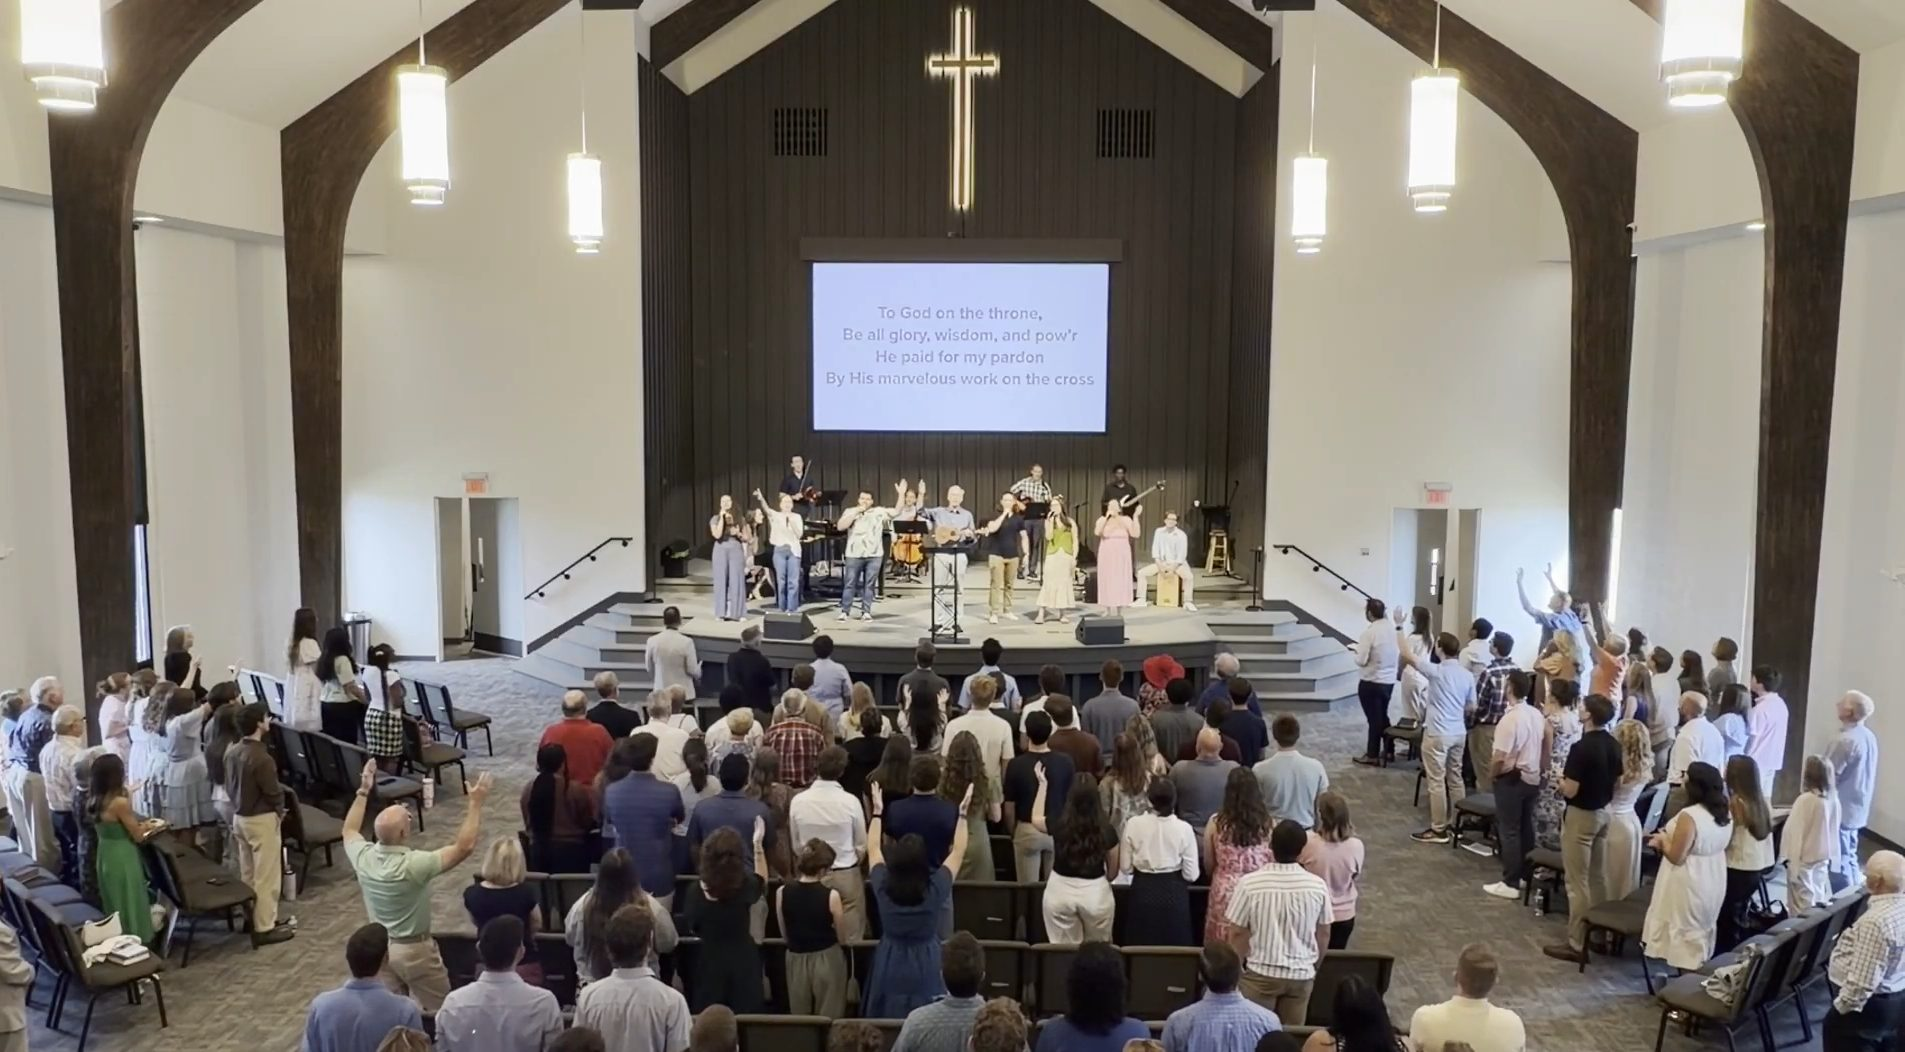
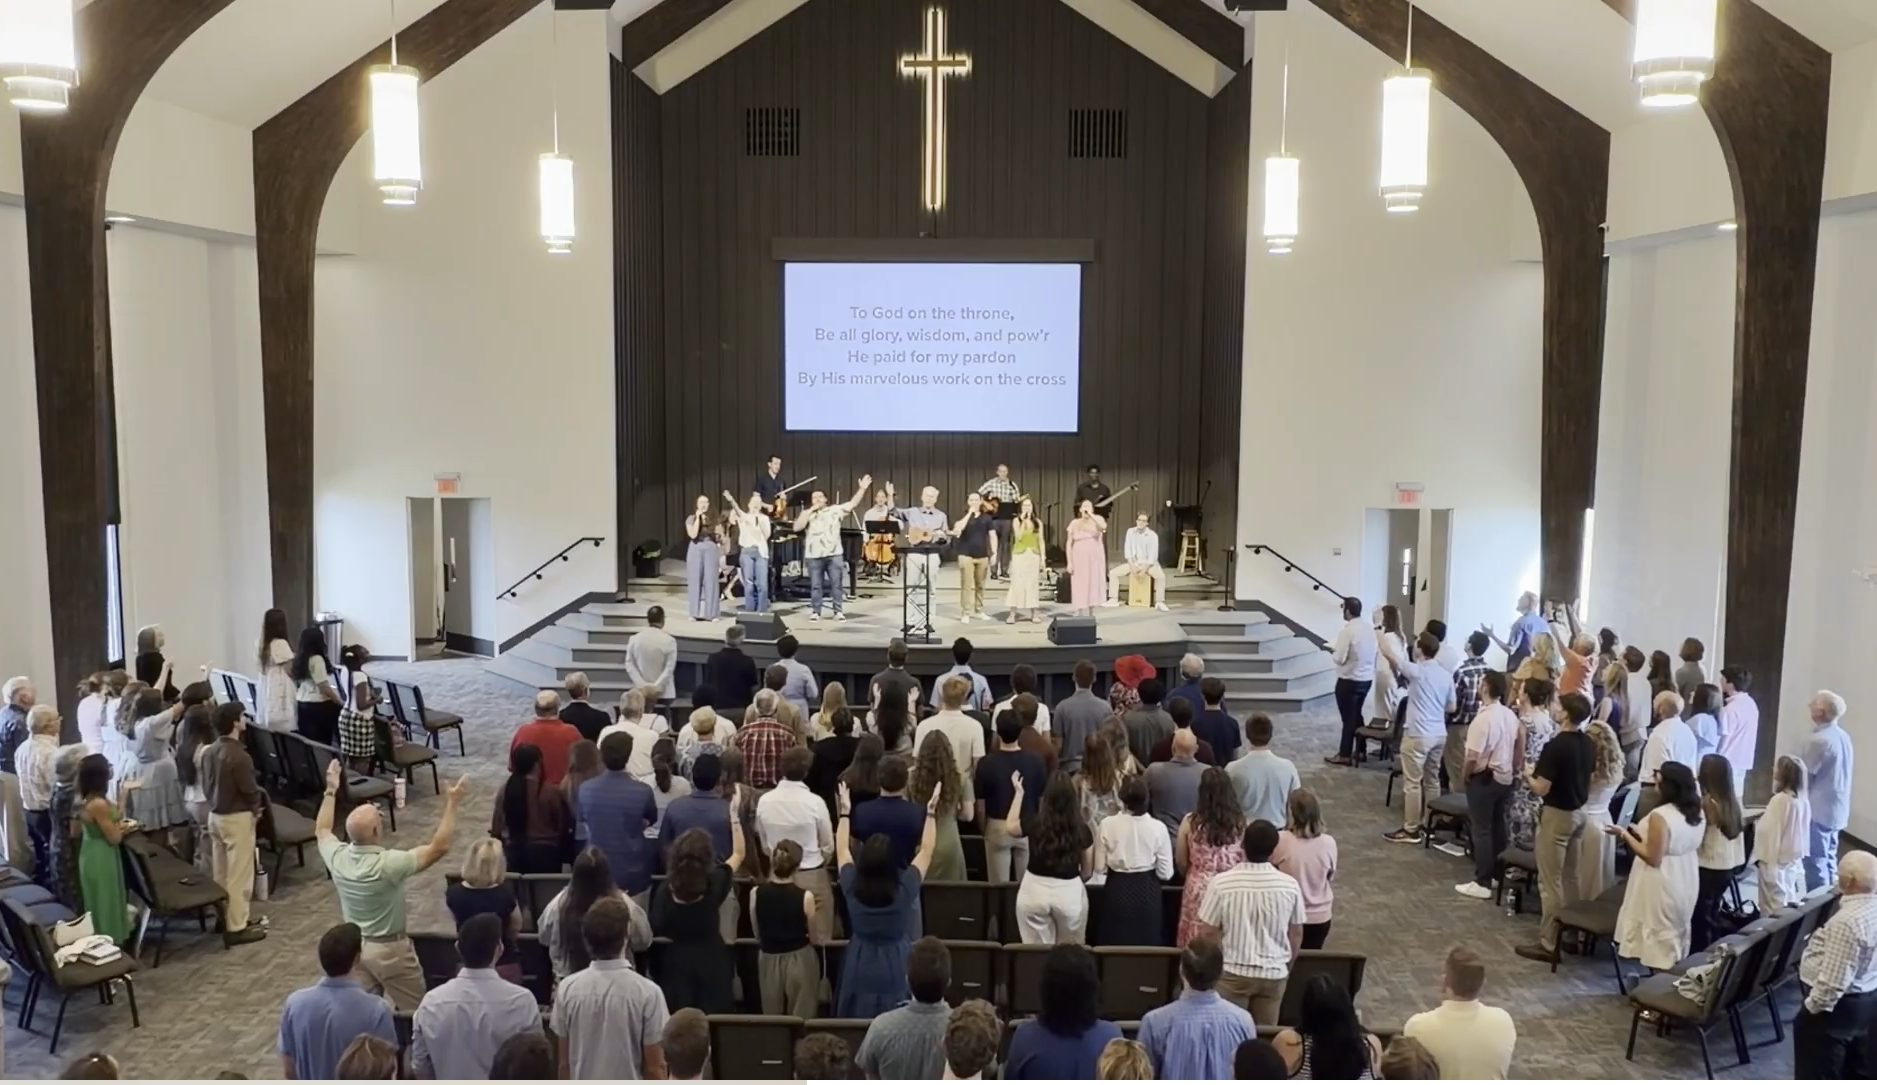
Swap the hero photo and restore cover top-center framing
Replace the sanctuary background with the new worship photo and drop
the 1mm left nudge so the image fills with cover, top-center, and the
wall-cross stays in frame.

diff --git a/css/app.css b/css/app.css
@@ -12,7 +12,7 @@
 .btn:hover{text-decoration:none}.btn:focus-visible{outline:3px solid var(--lime);outline-offset:2px}
 .btn-lime{background:var(--lime);color:var(--charcoal)}.btn-forest{background:var(--forest);color:#fff}.btn-outline{background:transparent;border-color:var(--forest);color:var(--forest)}.btn-ghost{background:transparent;color:var(--charcoal)}.btn-sm{padding:8px 12px;font-size:13px}.btn-block{width:100%}
 .hero{padding:88px 0 72px}.kicker{font-size:12px;letter-spacing:.16em;font-weight:700;text-transform:uppercase;color:var(--forest);margin:0 0 16px}
-.landing-hero-wrap{min-height:calc(100vh - 72px);min-height:calc(100dvh - 72px);display:flex;align-items:center;justify-content:center;padding:32px 24px;box-sizing:border-box;position:relative;background-color:var(--white);background-image:linear-gradient(rgba(255,255,255,.72),rgba(255,255,255,.72)),url("../assets/hero-worship.jpg");background-size:100% 100%,cover;background-position:center,calc(50% - 1mm) top;background-repeat:no-repeat}
+.landing-hero-wrap{min-height:calc(100vh - 72px);min-height:calc(100dvh - 72px);display:flex;align-items:center;justify-content:center;padding:32px 24px;box-sizing:border-box;position:relative;background-color:var(--white);background-image:linear-gradient(rgba(255,255,255,.72),rgba(255,255,255,.72)),url("../assets/hero-worship.jpg");background-size:100% 100%,cover;background-position:center,top center;background-repeat:no-repeat}
 .landing-hero{display:flex;flex-direction:column;align-items:center;text-align:center;width:max-content;max-width:100%;margin-inline:auto;position:relative;z-index:1}
 .landing-hero-mark{height:64px;width:auto;margin:0 0 28px}
 .display{font-family:var(--serif);font-weight:500;font-size:clamp(36px,5.4vw,56px);line-height:1.15;letter-spacing:-.02em;margin:0 0 20px;max-width:18ch}
@@ -47,4 +47,4 @@ footer{border-top:1px solid var(--hairline);padding:48px 0 28px}.foot{display:gr
 table{width:100%;border-collapse:collapse;font-size:14px}th,td{text-align:left;padding:12px 10px;border-bottom:1px solid var(--hairline)}th{font-size:12px;letter-spacing:.06em;text-transform:uppercase;color:var(--muted)}
 .toast{position:fixed;bottom:24px;right:24px;background:var(--charcoal);color:#fff;padding:12px 16px;border-radius:10px;font-size:14px;display:none;z-index:80}.toast.show{display:block}
 .faq details{border-bottom:1px solid var(--hairline);padding:14px 0}.faq summary{cursor:pointer;font-weight:700}
-@media(max-width:900px){.grid-3,.featured,.foot,.admin-shell,.stats,.grid-2{grid-template-columns:1fr}.song-row{grid-template-columns:40px 1fr}.actions{grid-column:1/-1;justify-content:flex-start}.nav-links{display:none}.nav-links.open{display:flex;flex-direction:column;position:absolute;top:72px;left:0;right:0;background:#fff;border-bottom:1px solid var(--hairline);padding:16px 24px}.nav-cta .btn{min-height:44px}.nav-toggle{display:inline-flex;align-items:center;justify-content:center;width:44px;height:44px;min-width:44px;min-height:44px;padding:0;border:0;border-radius:var(--radius);background:var(--forest-dark);background-color:var(--forest-dark);background-image:none;color:var(--white)}.nav-toggle:focus-visible{outline:3px solid var(--lime);outline-offset:2px}.aside{display:flex;gap:8px;overflow:auto}.landing-hero-wrap{padding:24px 20px;background-image:linear-gradient(rgba(255,255,255,.82),rgba(255,255,255,.82)),url("../assets/hero-worship.jpg");background-size:100% 100%,cover;background-position:center,calc(50% - 1mm) top}.landing-hero-mark{height:56px}.landing-hero-title{font-size:clamp(22px,5.6vw,36px)}}
+@media(max-width:900px){.grid-3,.featured,.foot,.admin-shell,.stats,.grid-2{grid-template-columns:1fr}.song-row{grid-template-columns:40px 1fr}.actions{grid-column:1/-1;justify-content:flex-start}.nav-links{display:none}.nav-links.open{display:flex;flex-direction:column;position:absolute;top:72px;left:0;right:0;background:#fff;border-bottom:1px solid var(--hairline);padding:16px 24px}.nav-cta .btn{min-height:44px}.nav-toggle{display:inline-flex;align-items:center;justify-content:center;width:44px;height:44px;min-width:44px;min-height:44px;padding:0;border:0;border-radius:var(--radius);background:var(--forest-dark);background-color:var(--forest-dark);background-image:none;color:var(--white)}.nav-toggle:focus-visible{outline:3px solid var(--lime);outline-offset:2px}.aside{display:flex;gap:8px;overflow:auto}.landing-hero-wrap{padding:24px 20px;background-image:linear-gradient(rgba(255,255,255,.82),rgba(255,255,255,.82)),url("../assets/hero-worship.jpg");background-size:100% 100%,cover;background-position:center,top center}.landing-hero-mark{height:56px}.landing-hero-title{font-size:clamp(22px,5.6vw,36px)}}
